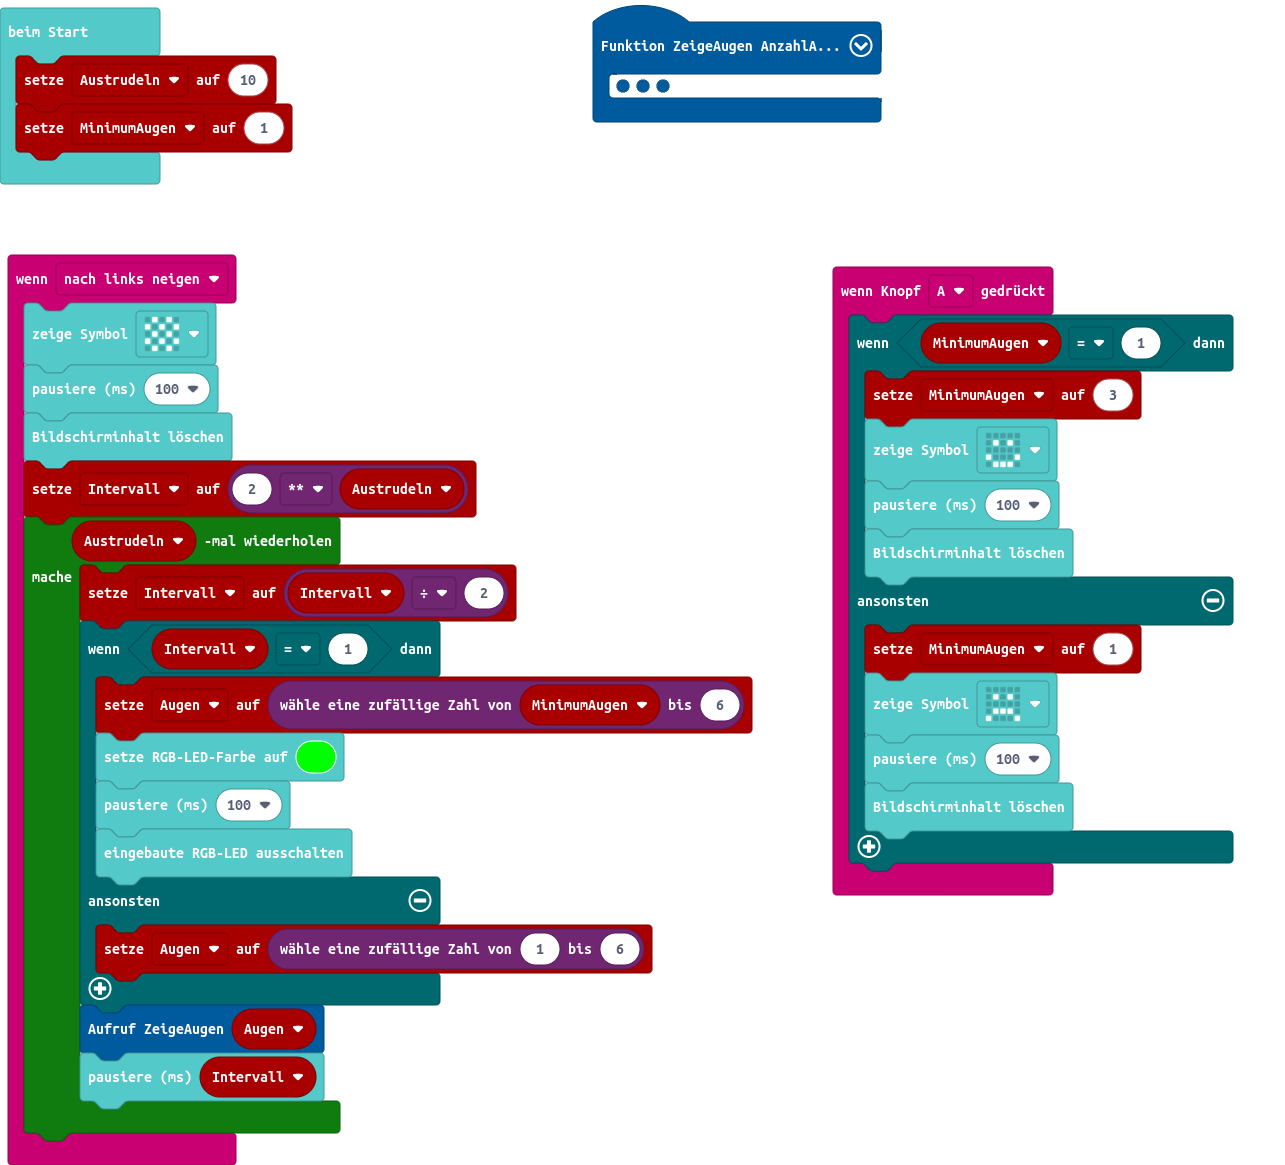
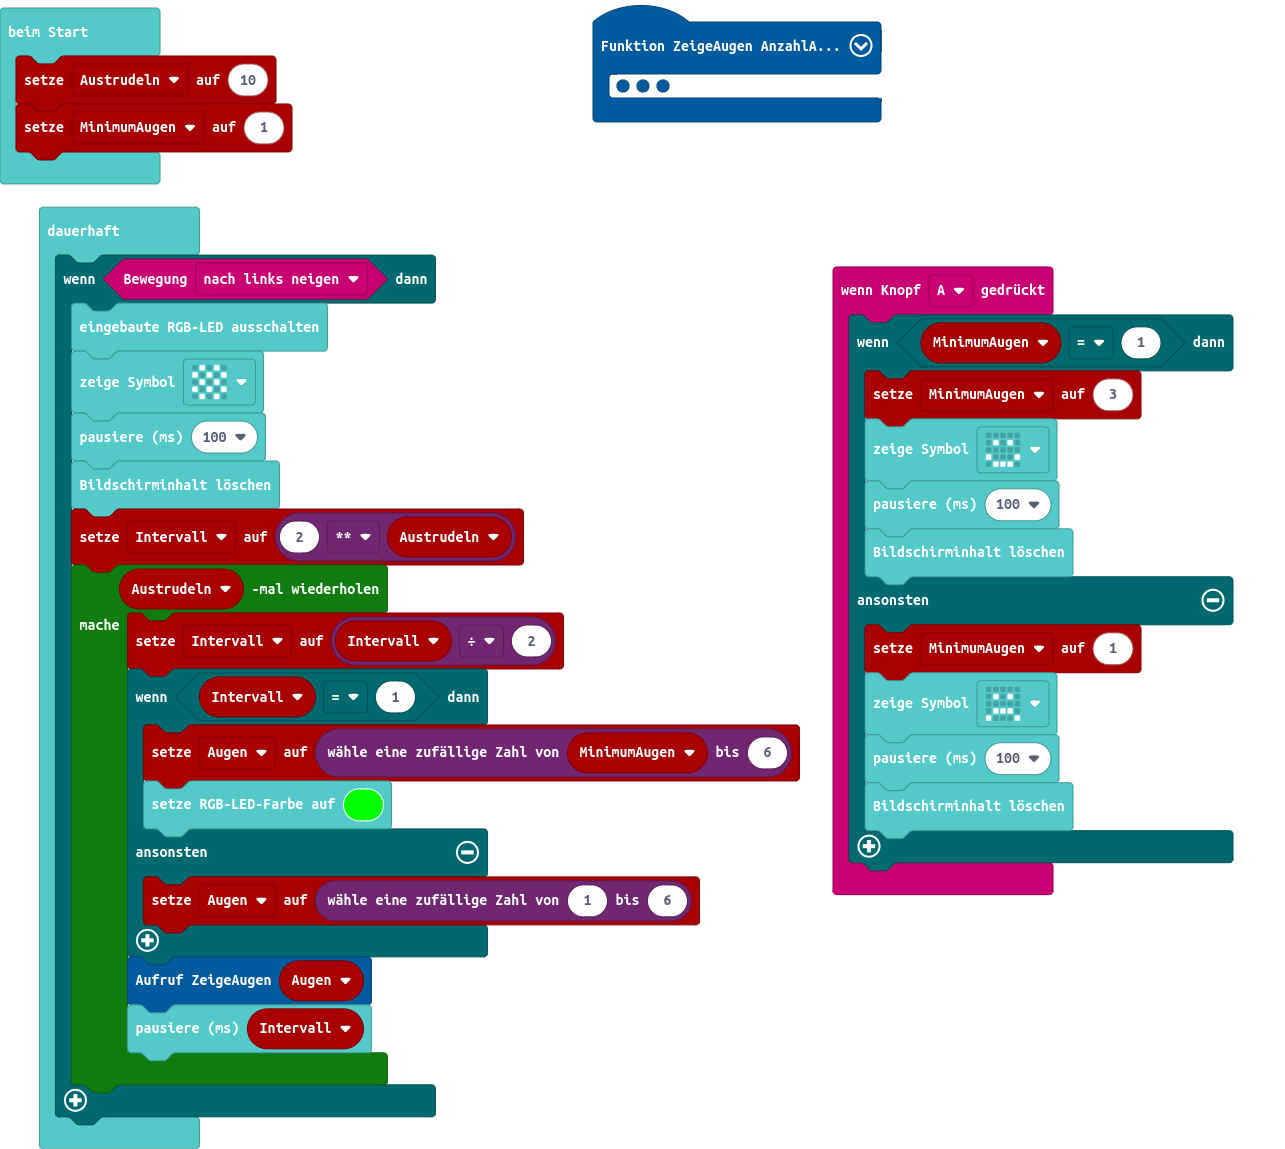
Aktualisiere main.blocks, main.ts

diff --git a/main.ts b/main.ts
@@ -62,28 +62,28 @@ input.onButtonPressed(Button.A, function () {
         basic.clearScreen()
     }
 })
-input.onGesture(Gesture.TiltLeft, function () {
-    basic.showIcon(IconNames.Chessboard)
-    basic.pause(100)
-    basic.clearScreen()
-    Intervall = 2 ** Austrudeln
-    for (let index = 0; index < Austrudeln; index++) {
-        Intervall = Intervall / 2
-        if (Intervall == 1) {
-            Augen = randint(MinimumAugen, 6)
-            basic.setLedColor(0x00ff00)
-            basic.pause(100)
-            basic.turnRgbLedOff()
-        } else {
-            Augen = randint(1, 6)
-        }
-        ZeigeAugen(Augen)
-        basic.pause(Intervall)
-    }
-})
 let Augen = 0
 let Intervall = 0
 let MinimumAugen = 0
-let Austrudeln = 0
-Austrudeln = 10
+let Austrudeln = 10
 MinimumAugen = 1
+basic.forever(function () {
+    if (input.isGesture(Gesture.TiltLeft)) {
+        basic.turnRgbLedOff()
+        basic.showIcon(IconNames.Chessboard)
+        basic.pause(100)
+        basic.clearScreen()
+        Intervall = 2 ** Austrudeln
+        for (let index = 0; index < Austrudeln; index++) {
+            Intervall = Intervall / 2
+            if (Intervall == 1) {
+                Augen = randint(MinimumAugen, 6)
+                basic.setLedColor(0x00ff00)
+            } else {
+                Augen = randint(1, 6)
+            }
+            ZeigeAugen(Augen)
+            basic.pause(Intervall)
+        }
+    }
+})
